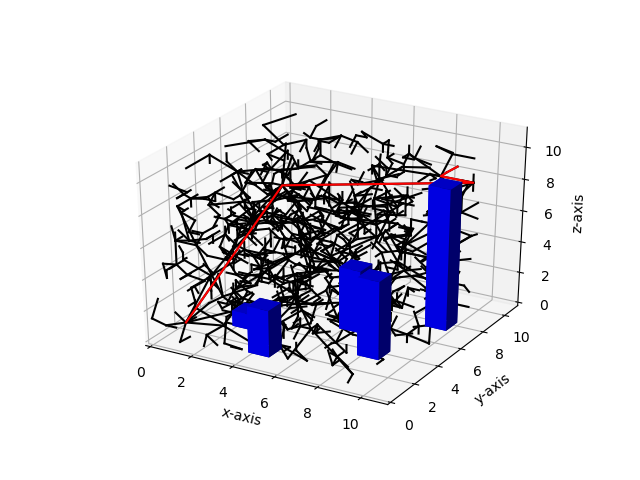
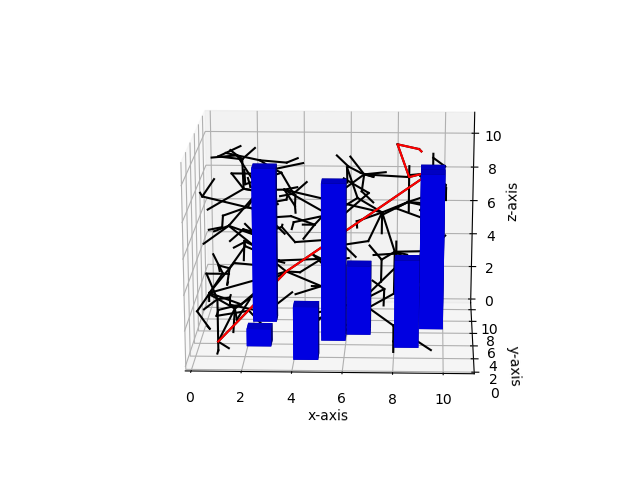
Fixed bugs which made the exploration inside obstacles and fixed other bugs

diff --git a/RRT_with_cuboid_obstacles/RRT.py b/RRT_with_cuboid_obstacles/RRT.py
@@ -9,29 +9,53 @@ import matplotlib.pyplot as plt
 from mpl_toolkits.mplot3d import axes3d 
 import matplotlib.pyplot as plt 
 from matplotlib import style 
+import copy
 plt.ion()
-
+# style.use('ggplot') 
 length = 10
 breadth = 10
 height = 10
 fig = plt.figure()
 ax = plt.axes(projection='3d')
 
-
 ax.set_xlim3d(0, 11)
 ax.set_ylim3d(0,11)
 ax.set_zlim3d(0,11)
 
+def obstacle_check(i,j,k):
+    a = b = c = d = e = f = g = h = 0
+    if(2 <= i <=3) and (3 <= j <= 4) and (0 <= k <= 1):
+        a = 1
+    elif (4 <= i <=5) and (1 <= j <= 2) and (0 <= k <= 3):
+        b = 1
+    elif (6 <= i <=7) and (5 <= j <= 6) and (0 <= k <= 4):
+        c = 1
+    elif (8 <= i <=9) and (3 <= j <= 4) and (0 <= k <= 5):
+        d = 1
+    elif (9 <= i <=10) and (7 <= j <= 8) and (0 <= k <= 10):
+        e = 1
+    elif (2 <= i <=3) and (7 <= j <= 8) and (0 <= k <= 10):
+        f = 1
+    elif (5 <= i <=6) and (4 <= j <= 5) and (0 <= k <= 10):
+        g = 1
+    elif (9 <= i <=10) and (6 <= j <= 7) and (0 <= k <= 10):
+        h = 1
+
+    if  ((a == 1) or (b == 1) or (c == 1) or (d == 1) or (e == 1) or (f == 1) or (g == 1) or (h == 1)):
+        return True
+    else:
+        return False
+
 def obstacle_map():
     # defining x, y, z co-ordinates for bar position 
-    x = [2,4,6,8,9] 
-    y = [3,1,5,3,7] 
-    z = np.zeros(5) 
+    x = [2,4,6,8,9,2,5,9] 
+    y = [3,1,5,3,7,7,4,6] 
+    z = np.zeros(8) 
 
     # size of bars 
-    dx = np.ones(5)              # length along x-axis 
-    dy = np.ones(5)              # length along y-axs 
-    dz = [1,3,4,5,9]   # height of bar 
+    dx = np.ones(8)              # length along x-axis 
+    dy = np.ones(8)              # length along y-axs 
+    dz = [1,3,4,5,9,9,9,9]   # height of bar 
 
     # setting color scheme 
     color = [] 
@@ -51,29 +75,13 @@ def boundary_check(i, j, k):
     else:
         return False
 
-def obstacle_check(i,j,k):
-    a = b = c = d = e = 0
-    if(2 <= i <=3) and (3 <= j <= 4) and (0 <= k <= 1):
-        a = 1
-    elif (4 <= i <=5) and (1 <= j <= 2) and (0 <= k <= 3):
-        b = 1
-    elif (6 <= i <=7) and (5 <= j <= 6) and (0 <= k <= 4):
-        c = 1
-    elif (8 <= i <=9) and (3 <= j <= 4) and (0 <= k <= 5):
-        d = 1
-    elif (9 <= i <=10) and (7 <= j <= 8) and (0 <= k <= 10):
-        e = 1
 
-    if  ((a == 1) or (b == 1) or (c == 1) or (d == 1) or (e == 1)):
-        return True
-    else:
-        return False
 
 def line_obstacle_check(j, i):
     k = (i[0] - j[0], i[1] - j[1], i[2] - j[2])
     k_mod = math.sqrt(k[0]**2 + k[1]**2 + k[2]**2)
     vec = (k[0]/k_mod, k[1]/k_mod, k[2]/k_mod)
-    new_point = (j[0]+0.2*vec[0], j[1]+ 0.2*vec[1], j[2]+0.2*vec[2])
+    new_point = (j[0]+0.1*vec[0], j[1]+ 0.1*vec[1], j[2]+0.1*vec[2])
     return new_point
 
 def cost2go(pt1, pt2):
@@ -108,14 +116,14 @@ all_nodes.append(start)
 parent_dict[start] = "okay"
 
 seed = (0,0,0)
-print("visitednodes",visited_nodes)
-print("all_nodes", all_nodes)
+# print("visitednodes",visited_nodes)
+# print("all_nodes", all_nodes)
 print("\n")
 
 while(goalcheck_circle(goal_x, goal_y, goal_z, seed[0], seed[1], seed[2]) == False):
     seed = generate_seed()
-    print("generated_seed", seed)
-    if (seed not in visited_nodes):
+    # print("generated_seed", seed)
+    if ((seed not in visited_nodes) and not obstacle_check(seed[0], seed[1], seed[2])):
         
         all_nodes.insert(0, seed)    
         X = np.array(all_nodes)
@@ -127,31 +135,31 @@ while(goalcheck_circle(goal_x, goal_y, goal_z, seed[0], seed[1], seed[2]) == Fal
         par = seed
         s = parent
         a = 0
-        print(s)
-        while(cost2go(par,s)>=0.3):
+        # print(s)
+        while(cost2go(par,s)>=0.1):
             a = line_obstacle_check(s, par)
             # print(a)
             if obstacle_check(a[0], a[1], a[2]):
-                # print("inside")
-                # print("stop point", s)
+#                 print("inside")
+#                 print("stop point", a)
                 break
             s = a
 
         s = (round(s[0], 1), round(s[1], 1), round(s[2], 1))
 
-        s = seed
-        all_nodes.insert(0, s) 
-        visited_nodes.add(s)
-        parent_dict[s] = parent 
-        print("parent", parent)
-        print("seed", s)
-
-        parent_list.append((parent[0], parent[1], parent[2]))
-        seed_list.append((s[0], s[1], s[2]))
-        ax.plot3D((parent[0],s[0]), (parent[1], s[1]), (parent[2], s[2]), 'black')
-        # plt.show()
-        print("\n")
-
+        # s = seed
+        if s not in visited_nodes:
+            all_nodes[0] = s 
+            visited_nodes.add(s)
+            parent_dict[s] = parent 
+            parent_list.append((parent[0], parent[1], parent[2]))
+            seed_list.append((s[0], s[1], s[2]))
+            ax.plot3D((parent[0],s[0]), (parent[1], s[1]), (parent[2], s[2]), 'black')
+            # plt.show()
+            # print("\n")
+        else:
+            all_nodes.pop(0)
+        
 
 print("Goal_Reached")
 # print("dict", parent_dict)
@@ -166,7 +174,6 @@ while parent != 'okay':
     parent = temp
     if parent == (start):
         break
-
 path.append(start)
 print("Backtracking done - shortest path found")
 
@@ -202,11 +209,7 @@ ax.set_xlabel('x-axis')
 ax.set_ylabel('y-axis') 
 ax.set_zlabel('z-axis') 
 plt.show()
+plt.pause(5)
 plt.savefig("output.png")
-plt.pause(500)
 plt.close()
 
-        
-        
-    
-    
